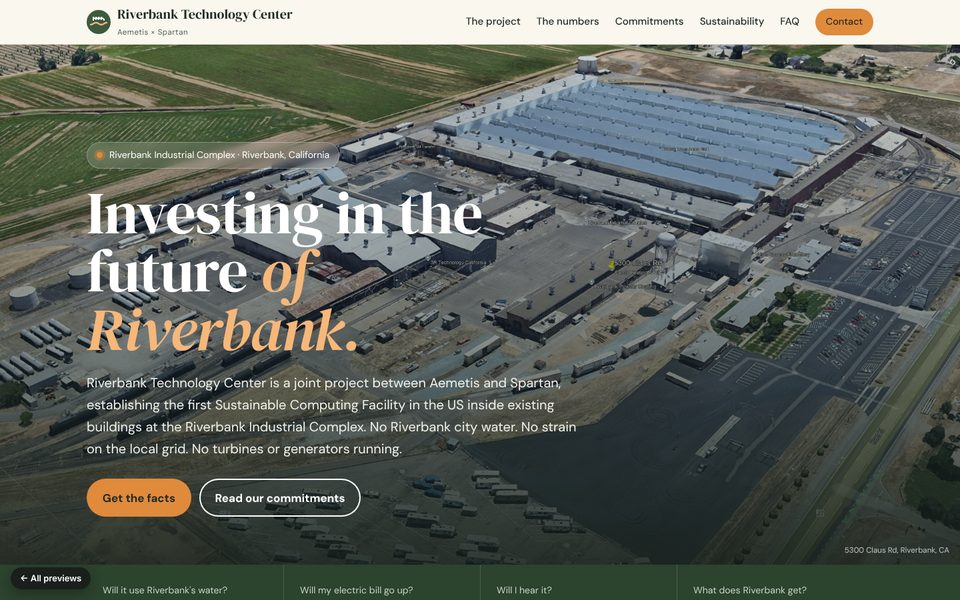
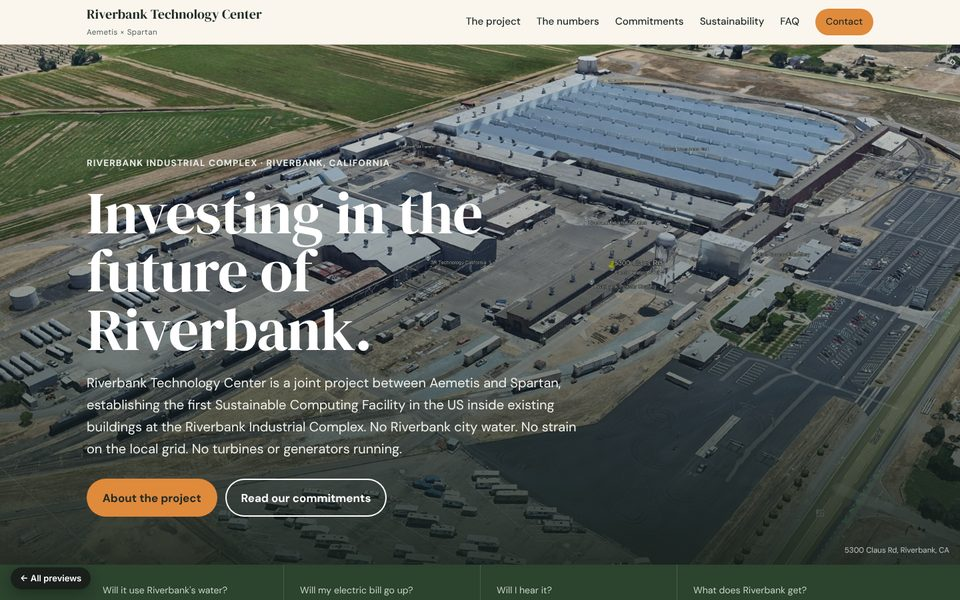
Remove template-style design tells from the previews
Drop invented logo marks, accent-colored italic words in headings,
glass-blur pills and glowing dots, blinking and flowing animations,
hover zoom/lift effects, and stock headings ('Straight answers', 'at a
glance'). Use the current site's own section headings instead. Also
fixes a stray closing div that broke preview C's numbers layout.

Claude-Session: https://claude.ai/code/session_01X7rAaJeeaTAPxp9m8vSycq

diff --git a/previews/c-hometown/index.html b/previews/c-hometown/index.html
@@ -45,22 +45,22 @@ a { color: var(--river); text-underline-offset: 3px; }
 :focus-visible { outline: 3px solid var(--sun); outline-offset: 3px; border-radius: 6px; }
 h1, h2, h3 { margin: 0 0 .45em; line-height: 1.1; font-weight: 400; }
 h2 { font: 400 clamp(2rem, 4.4vw, 3.1rem)/1.05 var(--serif); letter-spacing: -.005em; }
-h2 em, h1 em { font-style: italic; color: var(--sun); }
+
 h3 { font: 700 1.1rem/1.3 var(--sans); }
 p { margin: 0 0 1em; }
 .wrap { width: min(1180px, 100% - 32px); margin-inline: auto; }
 .sec { padding: clamp(64px, 9vw, 112px) 0; }
-.kicker { display: inline-flex; align-items: center; gap: 8px; font-size: .82rem; font-weight: 700; letter-spacing: .08em; text-transform: uppercase; color: var(--olive); margin-bottom: 14px; }
-.kicker::before { content: ""; width: 22px; height: 2px; background: var(--sun); }
+.kicker { display: block; font-size: .82rem; font-weight: 700; letter-spacing: .08em; text-transform: uppercase; color: var(--olive); margin-bottom: 14px; }
+
 .intro { max-width: 60ch; color: var(--ink-2); font-size: 1.1rem; }
 .sr-only { position: absolute; width: 1px; height: 1px; overflow: hidden; clip: rect(0 0 0 0); white-space: nowrap; }
 .btn { display: inline-flex; align-items: center; gap: 8px; background: var(--sun); color: #1e2a24; font-weight: 700; text-decoration: none; padding: .85em 1.4em; border-radius: 999px; transition: transform .15s, background .15s; }
-.btn:hover { background: #ec9a50; transform: translateY(-1px); }
+.btn:hover { background: #ec9a50; }
 .btn.ghost { background: transparent; color: inherit; box-shadow: inset 0 0 0 2px currentColor; }
 .btn.ghost:hover { background: rgba(255,255,255,.12); }
 
 /* Header */
-.top { position: sticky; top: 0; z-index: 40; background: color-mix(in srgb, var(--cream) 92%, transparent); backdrop-filter: blur(10px); border-bottom: 1px solid var(--rule); }
+.top { position: sticky; top: 0; z-index: 40; background: var(--cream); border-bottom: 1px solid var(--rule); }
 .top .wrap { display: flex; align-items: center; justify-content: space-between; gap: 16px; min-height: 66px; }
 .brand { display: flex; align-items: center; gap: 10px; color: var(--ink); text-decoration: none; }
 .brand svg { flex: none; }
@@ -84,11 +84,11 @@ p { margin: 0 0 1em; }
 .hero > img { position: absolute; inset: 0; width: 100%; height: 100%; object-fit: cover; object-position: 60% 40%; }
 .hero::after { content: ""; position: absolute; inset: 0; background: linear-gradient(180deg, rgba(20,30,24,.15) 0%, rgba(20,30,24,.35) 40%, rgba(20,30,24,.88) 100%); }
 .hero .wrap { position: relative; z-index: 1; padding: 120px 0 clamp(40px, 6vw, 72px); }
-.pill { display: inline-flex; align-items: center; gap: 10px; background: rgba(255,255,255,.14); backdrop-filter: blur(6px); border: 1px solid rgba(255,255,255,.25); border-radius: 999px; padding: 7px 14px; font-size: .88rem; margin-bottom: 22px; }
-.pill i { width: 9px; height: 9px; border-radius: 50%; background: var(--sun); box-shadow: 0 0 0 4px rgba(224,138,60,.35); }
+.pill { font-size: .85rem; font-weight: 700; letter-spacing: .08em; text-transform: uppercase; color: #e9ece6; margin-bottom: 18px; }
+
 .pill a { color: #fff; font-weight: 600; }
 .hero h1 { font: 400 clamp(2.7rem, 7.5vw, 5.6rem)/.98 var(--serif); letter-spacing: -.01em; max-width: 14ch; margin-bottom: 20px; }
-.hero h1 em { color: #f6b77a; }
+
 .hero .lede { font-size: clamp(1.05rem, 1.6vw, 1.25rem); max-width: 54ch; color: #eef0ea; margin-bottom: 28px; }
 .hero .ctas { display: flex; flex-wrap: wrap; gap: 12px; }
 .hero .credit { position: absolute; right: 16px; bottom: 12px; z-index: 1; font-size: .72rem; color: rgba(255,255,255,.7); }
@@ -110,8 +110,8 @@ p { margin: 0 0 1em; }
 /* Story: then and now */
 .story { display: grid; grid-template-columns: 1fr 1.1fr; gap: clamp(32px, 6vw, 80px); align-items: center; }
 .story .stack { position: relative; padding-bottom: 60px; }
-.story .stack img { border-radius: var(--r); width: 100%; height: auto; box-shadow: 0 24px 50px -24px rgba(30,42,36,.45); }
-.story .stack .badge { position: absolute; right: -10px; bottom: 0; background: var(--card); border-radius: var(--r); padding: 18px 22px; box-shadow: 0 18px 40px -20px rgba(30,42,36,.4); max-width: 250px; }
+.story .stack img { border-radius: var(--r); width: 100%; height: auto;  }
+.story .stack .badge { position: absolute; right: -10px; bottom: 0; background: var(--card); border-radius: var(--r); padding: 18px 22px; border: 1px solid var(--rule); max-width: 250px; }
 .badge b { display: block; font: 400 2.4rem/1 var(--serif); color: var(--sun); }
 .badge span { font-size: .9rem; color: var(--ink-2); }
 .history { list-style: none; padding: 0; margin: 28px 0 0; display: grid; gap: 0; }
@@ -184,11 +184,11 @@ p { margin: 0 0 1em; }
 .community { background: var(--cream-2); }
 .mosaic { display: grid; grid-template-columns: 1.4fr 1fr 1fr; grid-template-rows: 260px 260px; gap: 14px; margin-top: 40px; }
 .mosaic figure { margin: 0; position: relative; border-radius: var(--r); overflow: hidden; background: var(--rule); }
-.mosaic img { width: 100%; height: 100%; object-fit: cover; transition: transform .5s; }
-.mosaic figure:hover img { transform: scale(1.04); }
+.mosaic img { width: 100%; height: 100%; object-fit: cover;  }
+
 .mosaic figure:first-child { grid-row: span 2; }
 .mosaic figure:nth-child(4) { grid-column: span 2; }
-.mosaic figcaption { position: absolute; left: 12px; bottom: 12px; right: 12px; display: flex; flex-direction: column; background: rgba(20,30,24,.72); backdrop-filter: blur(4px); color: #fff; padding: 10px 14px; border-radius: 12px; font-size: .85rem; }
+.mosaic figcaption { position: absolute; left: 12px; bottom: 12px; right: 12px; display: flex; flex-direction: column; background: rgba(20,30,24,.85); color: #fff; padding: 10px 14px; border-radius: 12px; font-size: .85rem; }
 .mosaic figcaption b { font-size: 1rem; }
 @media (max-width: 860px) { .mosaic { grid-template-columns: 1fr 1fr; grid-template-rows: 300px 220px 220px; } .mosaic figure:first-child { grid-row: auto; grid-column: span 2; } .mosaic figure:nth-child(4) { grid-column: auto; } }
 @media (max-width: 520px) { .mosaic { grid-template-columns: 1fr; grid-template-rows: none; grid-auto-rows: 260px; } .mosaic figure:first-child { grid-column: auto; } }
@@ -249,7 +249,6 @@ footer p { margin: 0; }
 <header class="top">
   <div class="wrap">
     <a class="brand" href="#top" aria-label="Riverbank Technology Center, home">
-      <svg width="36" height="36" viewBox="0 0 36 36" aria-hidden="true"><circle cx="18" cy="18" r="18" fill="var(--olive)"/><path d="M6 22c4 0 4-3 8-3s4 3 8 3 4-3 8-3" stroke="#f6b77a" stroke-width="2.4" fill="none" stroke-linecap="round"/><path d="M10 16v-5l4 3v-3l4 3v-3l4 3v-3l4 3v2" stroke="#fff" stroke-width="2" fill="none" stroke-linejoin="round"/></svg>
       <span><b>Riverbank Technology Center</b><small>Aemetis &times; Spartan</small></span>
     </a>
     <button class="menu" aria-expanded="false" aria-controls="nav">Menu</button>
@@ -268,11 +267,11 @@ footer p { margin: 0; }
 <section class="hero" id="top">
   <img src="../../img/aerial.jpg" alt="Aerial view of the Riverbank Industrial Complex: long industrial buildings, rail lines, and parking, with farmland beyond" width="2000" height="1120" fetchpriority="high">
   <div class="wrap">
-    <p class="pill"><i aria-hidden="true"></i> Riverbank Industrial Complex &middot; Riverbank, California</p>
-    <h1>Investing in the future <em>of Riverbank.</em></h1>
+    <p class="pill">Riverbank Industrial Complex &middot; Riverbank, California</p>
+    <h1>Investing in the future of Riverbank.</h1>
     <p class="lede">Riverbank Technology Center is a joint project between Aemetis and Spartan, establishing the first Sustainable Computing Facility in the US inside existing buildings at the Riverbank Industrial Complex. No Riverbank city water. No strain on the local grid. No turbines or generators running.</p>
     <div class="ctas">
-      <a class="btn" href="#numbers">Get the facts</a>
+      <a class="btn" href="#numbers">About the project</a>
       <a class="btn ghost" href="https://www.riverbanktc.com/assets/RTC-Responsible-Development-Commitments.pdf">Read our commitments</a>
     </div>
   </div>
@@ -296,7 +295,7 @@ footer p { margin: 0; }
     </div>
     <div>
       <p class="kicker">The project</p>
-      <h2>A computing facility <em>inside the Riverbank Industrial Complex.</em></h2>
+      <h2>A computing facility inside the Riverbank Industrial Complex.</h2>
       <p class="intro">A modern computing facility built to house high-performance computing, inside the existing Riverbank Industrial Complex, reusing site resources rather than starting from raw land.</p>
       <ol class="history">
         <li><span class="yr">Reuse</span><p>Existing buildings that once supported an aluminum smelter and U.S. Army ammunition casings production.</p></li>
@@ -311,16 +310,15 @@ footer p { margin: 0; }
 <section class="sec numbers" id="numbers">
   <div class="wrap">
     <p class="kicker">The numbers</p>
-    <h2>The numbers, <em>at a glance.</em></h2>
+    <h2>Expected local impact.</h2>
     <div class="split">
       <div class="panel takes">
-        <h3>The project at a glance</h3>
+        <h3>The project</h3>
         <div class="figs">
           <div class="fig"><span class="n">0</span><div><b>Continuous water usage for cooling</b><span>A one-time charge of recycled, non-drinkable water from existing on-site wells. No Riverbank city water.</span></div></div>
           <div class="fig"><span class="n">200+</span><div><b>Feet from the street</b><span>All computing equipment housed indoors in existing large industrial buildings.</span></div></div>
           <div class="fig"><span class="n">37</span><div><b>Existing tenants at the complex</b><span>RTC will be one of them, not a mega data center.</span></div></div>
         </div>
-      </div>
       </div>
       <div class="panel gives">
         <h3>What Riverbank gets back</h3>
@@ -338,7 +336,7 @@ footer p { margin: 0; }
 <section class="sec" id="how">
   <div class="wrap">
     <p class="kicker">Sustainable by design</p>
-    <h2>Water-wise cooling. <em>Clean, quiet power.</em></h2>
+    <h2>Water-wise cooling. Clean, quiet power.</h2>
     <p class="intro">Sustainability isn't an add-on here: it's the design. We're building to be a good neighbor: protecting Riverbank's water, air, and local grid, keeping noise low, and putting the resources the site already has to their best use.</p>
     <div class="how">
       <figure class="diagram" style="margin:0">
@@ -347,7 +345,7 @@ footer p { margin: 0; }
           <text x="68" y="196" text-anchor="middle">On-site wells</text><text x="68" y="214" text-anchor="middle" class="sub">one-time charge</text>
           <path d="M68 170 V130 H120" class="well"/>
           <rect x="120" y="40" width="300" height="180" rx="90" class="loop"/>
-          <rect x="120" y="40" width="300" height="180" rx="90" class="flow"/>
+          
           <rect x="156" y="98" width="106" height="64" rx="12" fill="var(--river)"/>
           <text x="209" y="126" text-anchor="middle" fill="#fff" style="fill:#fff">Computing</text><text x="209" y="144" text-anchor="middle" class="sub" style="fill:#dfeef5">housed indoors</text>
           <rect x="282" y="98" width="106" height="64" rx="12" fill="var(--sun)"/>
@@ -381,7 +379,7 @@ footer p { margin: 0; }
 <section class="sec" id="promises" style="padding-top:0">
   <div class="wrap">
     <p class="kicker">Responsible Development Commitments</p>
-    <h2>How we will plan, build, <em>and operate.</em></h2>
+    <h2>How we will plan, build, and operate.</h2>
     <p class="intro">Published for our neighbors, Riverbank city leaders, and Stanislaus County officials: seven commitments that govern this project from design through daily operation.</p>
     <ol class="promises">
       <li><h3>Protect the local grid and electricity rates</h3></li>
@@ -399,7 +397,7 @@ footer p { margin: 0; }
 <section class="sec community">
   <div class="wrap">
     <p class="kicker">Rooted in Riverbank</p>
-    <h2>A partner in this community <em>for years.</em></h2>
+    <h2>A partner in this community for years.</h2>
     <p class="intro">Long before this project, Aemetis has been part of Riverbank, supporting local events, education, and families.</p>
     <div class="mosaic">
       <figure><img src="../../img/fourth-of-july.jpg" alt="Children walking past red, white, and blue balloons at an outdoor Fourth of July celebration" width="1000" height="754" loading="lazy"><figcaption><b>Fourth of July</b></figcaption></figure>
@@ -413,7 +411,7 @@ footer p { margin: 0; }
 <section class="sec" id="partners">
   <div class="wrap">
     <p class="kicker">Who we are</p>
-    <h2>A new chapter, <em>built on deep roots.</em></h2>
+    <h2>A new chapter, built on deep roots.</h2>
     <p class="intro">Two partners with a shared belief that economic development projects should be built with a community, not just in it.</p>
     <ol class="promises partners">
       <li><h3>Aemetis</h3><p>A leading developer and producer of renewable fuels and low-carbon energy. Master developer of the Riverbank Industrial Complex since 2022, and one of the largest property taxpayers in Stanislaus County.</p></li>
@@ -427,7 +425,7 @@ footer p { margin: 0; }
   <div class="wrap faq-wrap">
     <div class="side">
       <p class="kicker">FAQ</p>
-      <h2>Straight answers.</h2>
+      <h2>Frequently asked questions.</h2>
       <p class="intro">Don't see yours? <a href="#contact">Get in touch.</a></p>
     </div>
     <div>

diff --git a/previews/d-straight-answers/index.html b/previews/d-straight-answers/index.html
@@ -85,7 +85,7 @@ p { margin: 0; }
 .hero-photo { position: relative; margin: 0; border-radius: 14px; overflow: hidden; aspect-ratio: 566 / 462; background: var(--soft); }
 .hero-photo img { width: 100%; height: 100%; object-fit: cover; }
 .chips { position: absolute; left: 20px; bottom: 20px; display: grid; gap: 8px; justify-items: start; }
-.chips span { background: #fff; color: #10272b; font-size: .88rem; font-weight: 600; padding: 9px 14px; border-radius: 999px; box-shadow: 0 2px 10px rgba(0,0,0,.15); }
+.chips span { background: #fff; color: #10272b; font-size: .88rem; font-weight: 600; padding: 9px 14px; border-radius: 999px;  }
 @media (max-width: 880px) { .hero-grid { grid-template-columns: 1fr; } }
 
 .stats { display: grid; grid-template-columns: repeat(4, 1fr); margin-top: clamp(40px, 6vw, 56px); background: var(--card); border: 1px solid var(--rule); border-radius: 14px; overflow: hidden; }
@@ -221,7 +221,7 @@ footer a { color: #fff; }
         <h1>A quiet computing facility, inside buildings Riverbank already has.</h1>
         <p class="lede">Aemetis and Spartan are bringing a modular, medium-sized computing facility into existing industrial buildings at the Riverbank Industrial Complex. No Riverbank city water, no strain on the local grid, no new construction, and $10M+ a year in new property tax revenue.</p>
         <div class="ctas">
-          <a class="btn" href="#questions">Get straight answers</a>
+          <a class="btn" href="#questions">Common questions</a>
           <a class="btn line" href="https://www.riverbanktc.com/assets/RTC-Responsible-Development-Commitments.pdf">Read our 7 commitments (PDF)</a>
         </div>
       </div>
@@ -241,8 +241,8 @@ footer a { color: #fff; }
 
 <section class="sec qs" id="questions">
   <div class="wrap">
-    <p class="kicker">Your questions, straight answers</p>
-    <h2 class="h2">What neighbors ask, answered.</h2>
+    <p class="kicker">Your questions</p>
+    <h2 class="h2">Common questions.</h2>
     <div class="qgrid">
       <article class="q">
         <span class="tag">Water</span>
@@ -337,8 +337,8 @@ footer a { color: #fff; }
 
 <section class="sec money" id="benefits">
   <div class="wrap">
-    <p class="kicker">Expected local impact</p>
-    <h2 class="h2">Recurring revenue for the things a town runs on.</h2>
+    <p class="kicker">Benefits</p>
+    <h2 class="h2">Expected local impact.</h2>
     <div class="money-grid">
       <div><b>$10M+<small>/yr</small></b><span>New property tax revenue for Stanislaus County &amp; Riverbank.</span></div>
       <div><b>$5M+<small>/yr</small></b><span>Of that, funding local schools every year.</span></div>
@@ -352,7 +352,7 @@ footer a { color: #fff; }
   <div class="wrap who-grid">
     <div>
       <p class="kicker">Who we are</p>
-      <h2 class="h2">Built with a community, not just in it.</h2>
+      <h2 class="h2">A new chapter, built on deep roots.</h2>
       <p class="lead">Long before this project, Aemetis has been part of Riverbank, supporting local events, education, and families. Spartan brings the engineering and delivery expertise to build smart and unobtrusive computing facilities.</p>
       <div class="partner"><h3>Aemetis</h3><p>A leading developer and producer of renewable fuels and low-carbon energy. Master developer of the Riverbank Industrial Complex since 2022, and one of the largest property taxpayers in Stanislaus County.</p></div>
       <div class="partner"><h3>Spartan</h3><p>Designs and delivers modular computing facilities, built for speed and reliability.</p></div>
@@ -369,7 +369,7 @@ footer a { color: #fff; }
 <section class="sec" id="faq">
   <div class="wrap faq">
     <p class="kicker">FAQ</p>
-    <h2 class="h2">More questions.</h2>
+    <h2 class="h2">Frequently asked questions.</h2>
     <div class="faq-list">
       <details open><summary>What is a Sustainable Computing Facility (SCF)?</summary><p>Economic development that adds jobs, repeatable tax revenues, and a sustainable project that doesn't pollute or deplete natural resources: zero continuous water usage for cooling, sustainable power sourcing, reuse of existing industrial buildings, industrially-zoned land rather than agricultural land, and large, recurring local tax revenue. Riverbank Technology Center is the first project built to the SCF standard.</p></details>
       <details><summary>Where exactly is it?</summary><p>Inside the existing Riverbank Industrial Complex, 5300 Claus Rd, Riverbank, CA 95367. <a href="https://www.google.com/maps/search/?api=1&amp;query=5300+Claus+Rd+Riverbank+CA+95367">Open in Google Maps</a>.</p></details>

diff --git a/previews/a-civic/index.html b/previews/a-civic/index.html
@@ -17,7 +17,6 @@
 <header class="site-header">
   <div class="wrap header-inner">
     <a class="brand" href="#top" aria-label="Riverbank Technology Center, home">
-      <svg viewBox="0 0 40 40" width="34" height="34" aria-hidden="true"><rect width="40" height="40" rx="9" fill="var(--river)"/><path d="M6 25c5 0 5-4 10-4s5 4 10 4 5-4 8-4" stroke="#fff" stroke-width="2.6" fill="none" stroke-linecap="round"/><path d="M13 17V10h14v7" stroke="var(--sand)" stroke-width="2.6" fill="none" stroke-linejoin="round"/></svg>
       <span><b>Riverbank Technology Center</b><small>Aemetis &times; Spartan</small></span>
     </a>
     <button class="menu-btn" aria-expanded="false" aria-controls="nav">Menu</button>
@@ -42,7 +41,7 @@
       <h1>A quiet computing facility, inside buildings Riverbank already has.</h1>
       <p class="lede">Riverbank Technology Center is a joint project between Aemetis and Spartan, establishing the first Sustainable Computing Facility in the US at the existing Riverbank Industrial Complex. All computing equipment will be housed indoors in existing large industrial buildings, with no Riverbank city water, no strain on the local grid, and no turbines or generators running.</p>
       <div class="hero-ctas">
-        <a class="btn" href="#facts">Get the facts</a>
+        <a class="btn" href="#facts">About the project</a>
         <a class="btn btn-ghost" href="https://www.riverbanktc.com/assets/RTC-Responsible-Development-Commitments.pdf">Read our commitments (PDF)</a>
       </div>
     </div>
@@ -57,7 +56,7 @@
 <section id="facts" class="section facts">
   <div class="wrap">
     <p class="eyebrow">Quick facts</p>
-    <h2>The questions neighbors ask first.</h2>
+    <h2>Common questions.</h2>
     <div class="fact-grid">
       <article class="fact">
         <p class="fact-q">Will it use Riverbank's water?</p>
@@ -220,8 +219,8 @@
 <!-- BENEFITS -->
 <section id="benefits" class="section benefits">
   <div class="wrap">
-    <p class="eyebrow">Expected local impact</p>
-    <h2>What Riverbank gets in return.</h2>
+    <p class="eyebrow">The project</p>
+    <h2>Expected local impact.</h2>
     <div class="stat-row">
       <div class="stat"><span class="num">$10M+/yr</span><span class="lbl">New property tax revenue for Stanislaus County &amp; Riverbank</span></div>
       <div class="stat"><span class="num">$5M+/yr</span><span class="lbl">Of that, funding local schools every year</span></div>
@@ -264,7 +263,7 @@
 <section id="faq" class="section faq">
   <div class="wrap narrow">
     <p class="eyebrow">FAQ</p>
-    <h2>Straight answers.</h2>
+    <h2>Frequently asked questions.</h2>
     <details><summary>What is a "Sustainable Computing Facility"?</summary><p>It's economic development that adds jobs, repeatable tax revenues, and a sustainable project that doesn't pollute or deplete natural resources. An SCF has zero continuous water usage for cooling, sustainable power sourcing, reuse of existing industrial buildings, industrially-zoned land rather than agricultural land, and large, recurring local tax revenue. Riverbank Technology Center is the first project built to the SCF standard.</p></details>
     <details><summary>How much water will it use, and where does it come from?</summary><p>There is zero continuous water usage for cooling. The closed-loop system needs a one-time charge of water consistent with the annual needs of a few homes. That water is recycled, non-drinkable industrial water drawn from existing on-site wells, not municipal drinking or agricultural water supplies.</p></details>
     <details><summary>Will my electricity rates go up?</summary><p>RTC does not strain local grid capacity or raise electricity costs for Riverbank ratepayers. It uses existing grid and transmission capacity already built to serve the site, and the project will pay for any onsite utility upgrades the facility requires, not ratepayers or taxpayers.</p></details>

diff --git a/previews/b-industrial/index.html b/previews/b-industrial/index.html
@@ -67,7 +67,7 @@ h1, h2, h3 { margin: 0; text-wrap: balance; }
 /* hero */
 .hero { background: var(--band); color: var(--on-band); padding-block: clamp(40px, 6vw, 72px) 0; overflow: hidden; }
 .hero .status { color: var(--hv); display: flex; gap: 10px; align-items: center; flex-wrap: wrap; }
-.hero .status i { width: 9px; height: 9px; background: var(--hv); display: inline-block; animation: blink 2.4s steps(2) infinite; }
+.hero .status i { width: 9px; height: 9px; background: var(--hv); display: inline-block;  }
 @keyframes blink { 50% { opacity: .2; } }
 @media (prefers-reduced-motion: reduce) { .hero .status i { animation: none; } }
 .hero h1 { font: 900 clamp(3rem, 8.4vw, 7.4rem)/.9 var(--display); text-transform: uppercase; letter-spacing: -.005em; margin: 22px 0 26px; max-width: 13ch; }
@@ -96,7 +96,7 @@ h1, h2, h3 { margin: 0; text-wrap: balance; }
 .cutaway .rack-ln { stroke: var(--river); stroke-width: 1.5; }
 .cutaway .chiller { fill: var(--band); stroke: var(--on-band-2); stroke-width: 1.5; }
 .cutaway .fan { fill: none; stroke: var(--on-band-2); stroke-width: 1.2; }
-.cutaway .loop { fill: none; stroke: #6aa5de; stroke-width: 3; stroke-dasharray: 10 6; animation: flow 1.6s linear infinite; }
+.cutaway .loop { fill: none; stroke: #6aa5de; stroke-width: 3; stroke-dasharray: 10 6;  }
 .cutaway .loop-ret { animation-direction: reverse; opacity: .7; }
 @keyframes flow { to { stroke-dashoffset: -32; } }
 @media (prefers-reduced-motion: reduce) { .cutaway .loop { animation: none; } }
@@ -272,11 +272,11 @@ footer b { color: var(--on-band); font: 800 1.2rem var(--display); text-transfor
 <section class="hero" id="top">
   <div class="wrap">
     <p class="mono status"><i aria-hidden="true"></i> Riverbank Industrial Complex &middot; Riverbank, California</p>
-    <h1>Computing inside <em>existing buildings.</em></h1>
+    <h1>Computing inside existing buildings.</h1>
     <div class="hero-row">
       <p class="lede">Riverbank Technology Center is a joint project between Aemetis and Spartan, establishing the first Sustainable Computing Facility in the US inside existing buildings at the Riverbank Industrial Complex. <strong>No Riverbank city water. No strain on the local grid. No turbines or generators running.</strong></p>
       <div class="ctas">
-        <a class="btn" href="#numbers">Get the facts</a>
+        <a class="btn" href="#numbers">About the project</a>
         <a class="btn line" href="https://www.riverbanktc.com/assets/RTC-Responsible-Development-Commitments.pdf">Commitments PDF</a>
       </div>
     </div>
@@ -411,7 +411,7 @@ footer b { color: var(--on-band); font: 800 1.2rem var(--display); text-transfor
   <div class="wrap">
     <div class="sec-head">
       <p class="mono">The numbers</p>
-      <h2>The project at a glance.</h2>
+      <h2>The project.</h2>
     </div>
     <div class="zeros">
       <div><span class="n">0</span><span class="u">Continuous water usage for cooling</span><p>A closed-loop system needs a one-time charge of recycled, non-drinkable industrial water from existing on-site wells. No City of Riverbank drinking water is used.</p></div>
@@ -425,7 +425,7 @@ footer b { color: var(--on-band); font: 800 1.2rem var(--display); text-transfor
   <div class="wrap">
     <div class="sec-head">
       <p class="mono">Expected local impact</p>
-      <h2>What it gives back.</h2>
+      <h2>Expected local impact.</h2>
       <p>Meaningful, sustained property tax revenue that funds schools, local governments, fire protection, libraries, and parks.</p>
     </div>
     <div class="zeros">
@@ -573,7 +573,7 @@ footer b { color: var(--on-band); font: 800 1.2rem var(--display); text-transfor
   <div class="wrap">
     <div class="sec-head">
       <p class="mono">FAQ</p>
-      <h2>Straight answers.</h2>
+      <h2>Frequently asked questions.</h2>
     </div>
     <div class="body-col">
       <div class="faq-grid">

diff --git a/previews/a-civic/styles.css b/previews/a-civic/styles.css
@@ -39,7 +39,7 @@ p { margin: 0 0 1em; }
 .skip:focus { left: 8px; }
 
 /* Buttons */
-.btn { display: inline-block; background: var(--river); color: #fff; font-weight: 600; text-decoration: none; padding: .8em 1.3em; border-radius: 999px; border: 2px solid var(--river); transition: background .15s, color .15s; }
+.btn { display: inline-block; background: var(--river); color: #fff; font-weight: 600; text-decoration: none; padding: .8em 1.3em; border-radius: 6px; border: 2px solid var(--river); transition: background .15s, color .15s; }
 .btn:hover { background: var(--river-2); border-color: var(--river-2); color: #fff; }
 .btn-ghost { background: transparent; color: var(--river); }
 .btn-ghost:hover { background: var(--river); color: #fff; }
@@ -51,7 +51,7 @@ p { margin: 0 0 1em; }
 .status-bar .dot { display: inline-block; width: 8px; height: 8px; border-radius: 50%; background: var(--sand); margin-right: 8px; vertical-align: middle; box-shadow: 0 0 0 4px rgba(232, 201, 143, .25); }
 
 /* Header */
-.site-header { position: sticky; top: 0; z-index: 50; background: rgba(251, 248, 242, .94); backdrop-filter: blur(8px); border-bottom: 1px solid var(--line); }
+.site-header { position: sticky; top: 0; z-index: 50; background: var(--paper); border-bottom: 1px solid var(--line); }
 .header-inner { display: flex; align-items: center; justify-content: space-between; gap: 16px; min-height: 68px; }
 .brand { display: flex; align-items: center; gap: 10px; text-decoration: none; color: var(--ink); }
 .brand span { display: flex; flex-direction: column; line-height: 1.2; }
@@ -70,7 +70,7 @@ p { margin: 0 0 1em; }
 }
 
 /* Hero */
-.hero { padding: clamp(40px, 7vw, 88px) 0 clamp(48px, 7vw, 80px); background: linear-gradient(180deg, var(--paper) 0%, var(--paper-2) 100%); }
+.hero { padding: clamp(40px, 7vw, 88px) 0 clamp(48px, 7vw, 80px); background: var(--paper-2); }
 .hero-grid { display: grid; grid-template-columns: 1.1fr 1fr; gap: clamp(28px, 5vw, 64px); align-items: center; }
 .lede { font-size: 1.15rem; color: var(--ink-2); max-width: 56ch; }
 .hero-ctas { display: flex; flex-wrap: wrap; gap: 12px; margin-top: 1.5rem; }

diff --git a/index.html b/index.html
@@ -33,7 +33,7 @@ h1 { font-size: clamp(2rem, 4.5vw, 3rem); line-height: 1.08; letter-spacing: -.0
 @media (max-width: 1000px) { .grid { grid-template-columns: 1fr 1fr; } }
 @media (max-width: 660px) { .grid { grid-template-columns: 1fr; } }
 .card { background: var(--card); border: 1px solid var(--rule); border-radius: 16px; overflow: hidden; display: flex; flex-direction: column; transition: transform .18s, box-shadow .18s; }
-.card:hover { transform: translateY(-3px); box-shadow: 0 20px 40px -24px rgba(0,0,0,.35); }
+
 .shot { display: block; aspect-ratio: 16 / 10; overflow: hidden; border-bottom: 1px solid var(--rule); background: var(--rule); }
 .shot img { width: 100%; height: 100%; object-fit: cover; object-position: top; display: block; }
 .body { padding: 20px 22px 22px; display: flex; flex-direction: column; flex: 1; }
@@ -108,7 +108,7 @@ h2 { display: flex; align-items: center; font-size: 1.2rem; margin: 0 0 4px; }
         <p class="desc">Opens with a full-bleed aerial of the complex, follows with large-type numbers, and ends on a community photo mosaic.</p>
         <ul class="points">
           <li>DM Serif Display with DM Sans body text</li>
-          <li>Animated closed-loop cooling diagram</li>
+          <li>Closed-loop cooling illustration</li>
           <li>Quick-answer bar under the hero</li>
         </ul>
         <div class="actions"><a class="btn" href="previews/c-hometown/">Open preview &rarr;</a></div>
